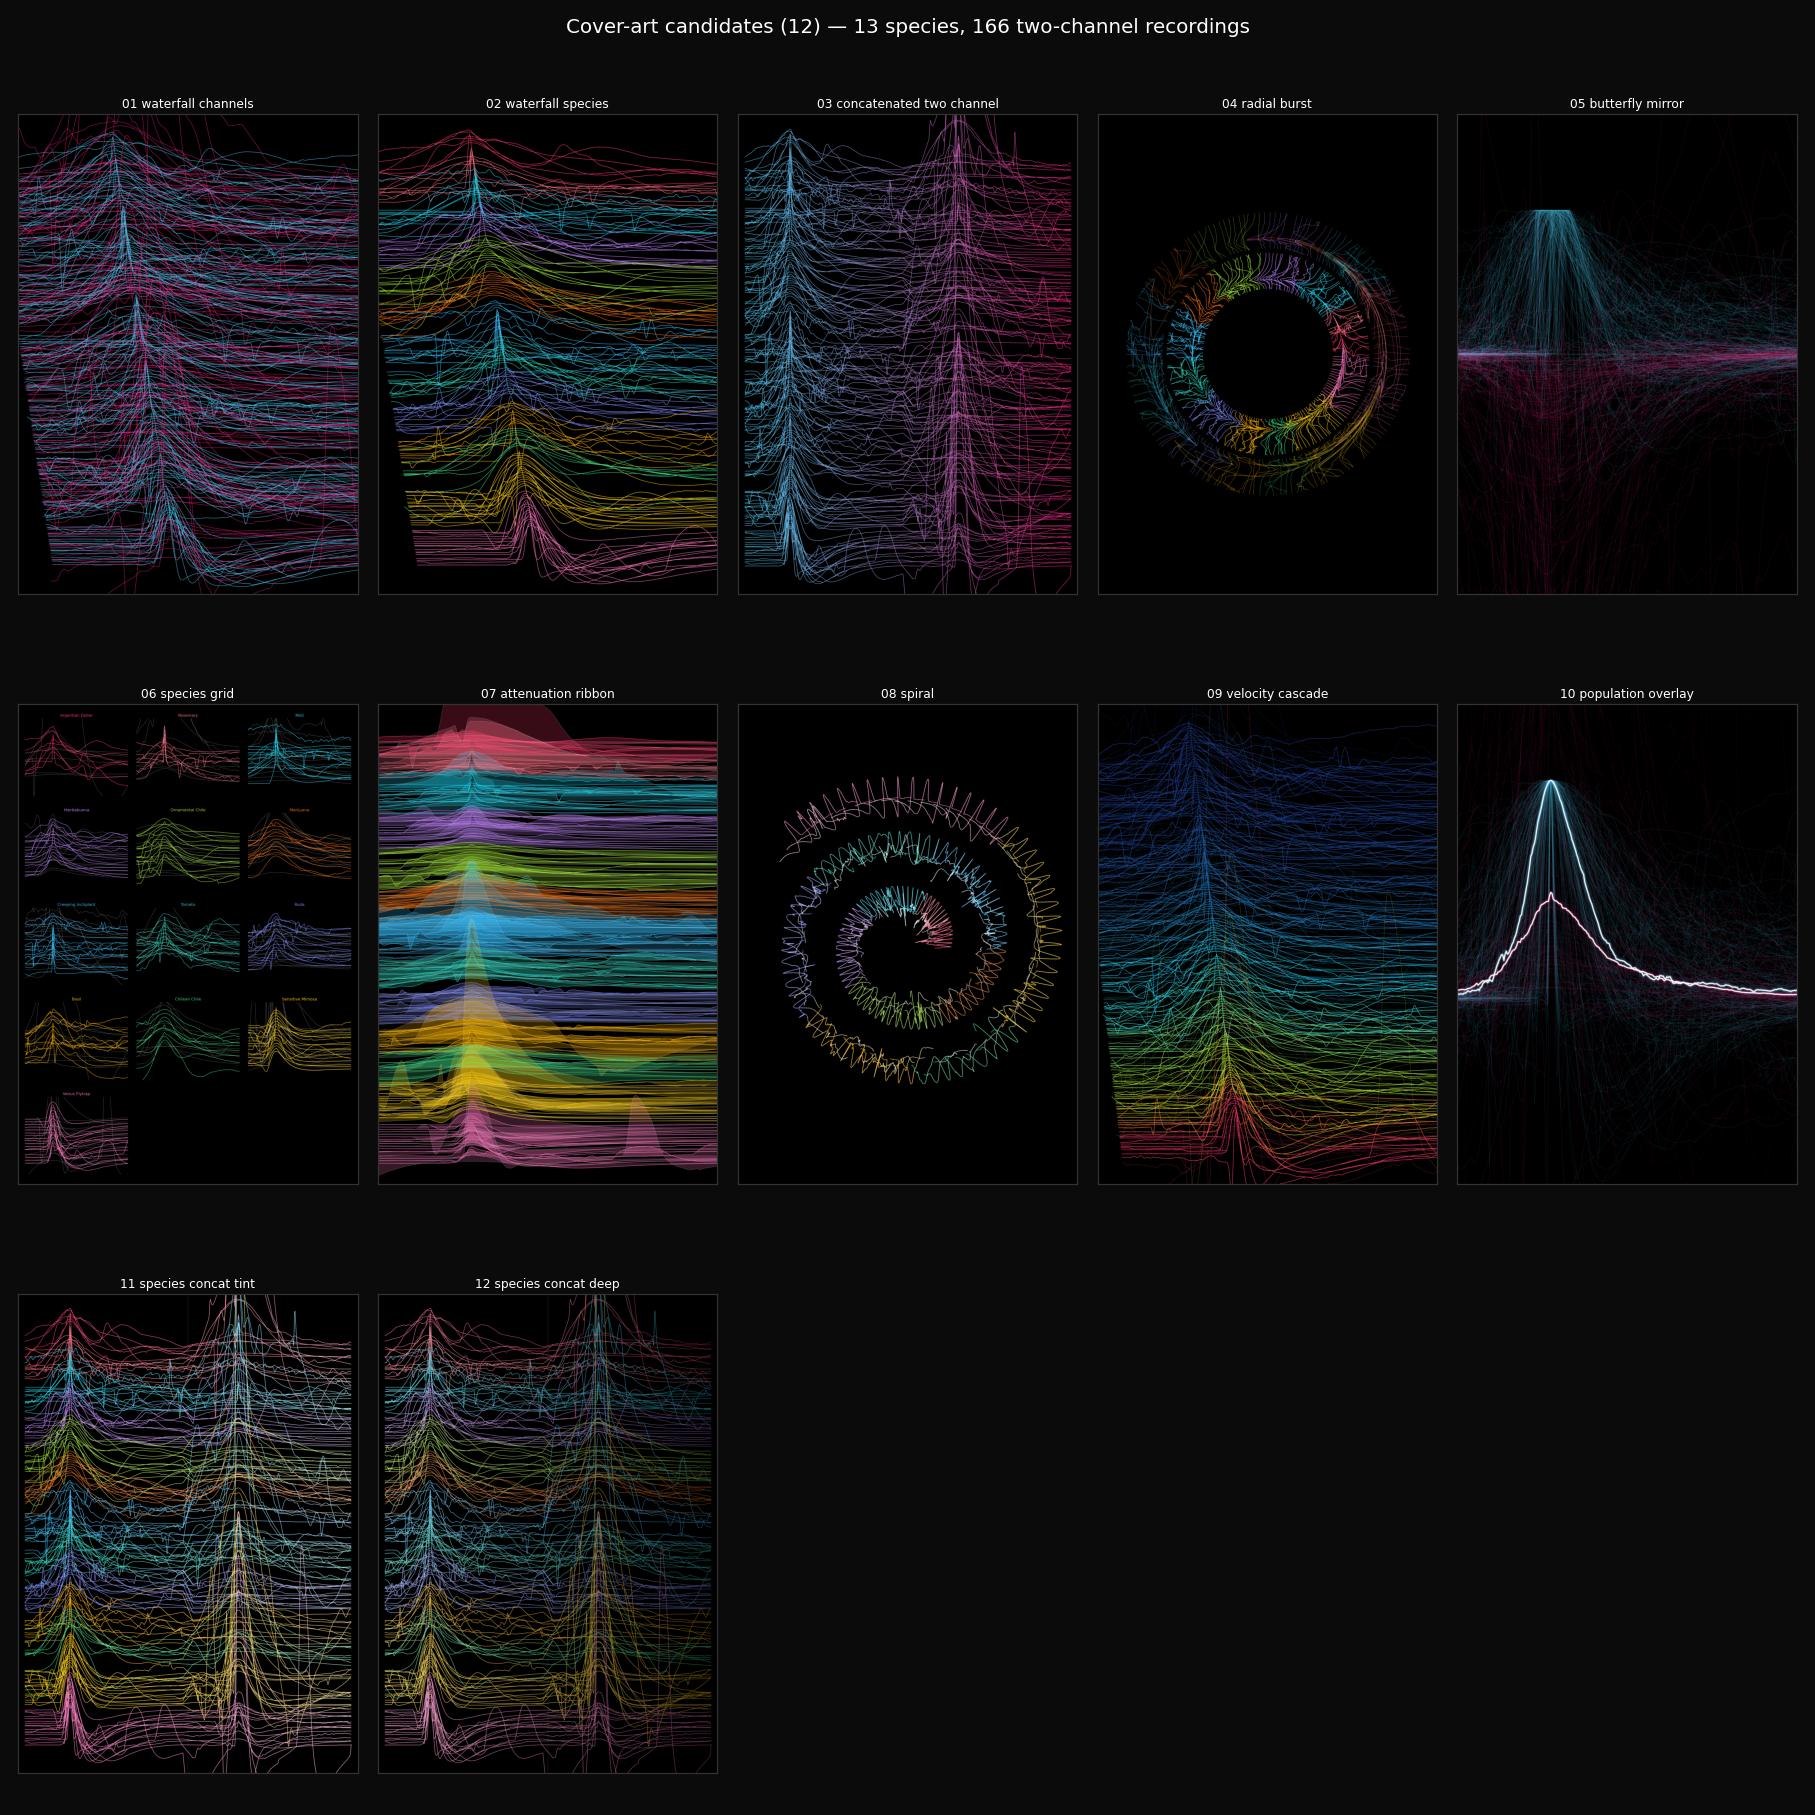
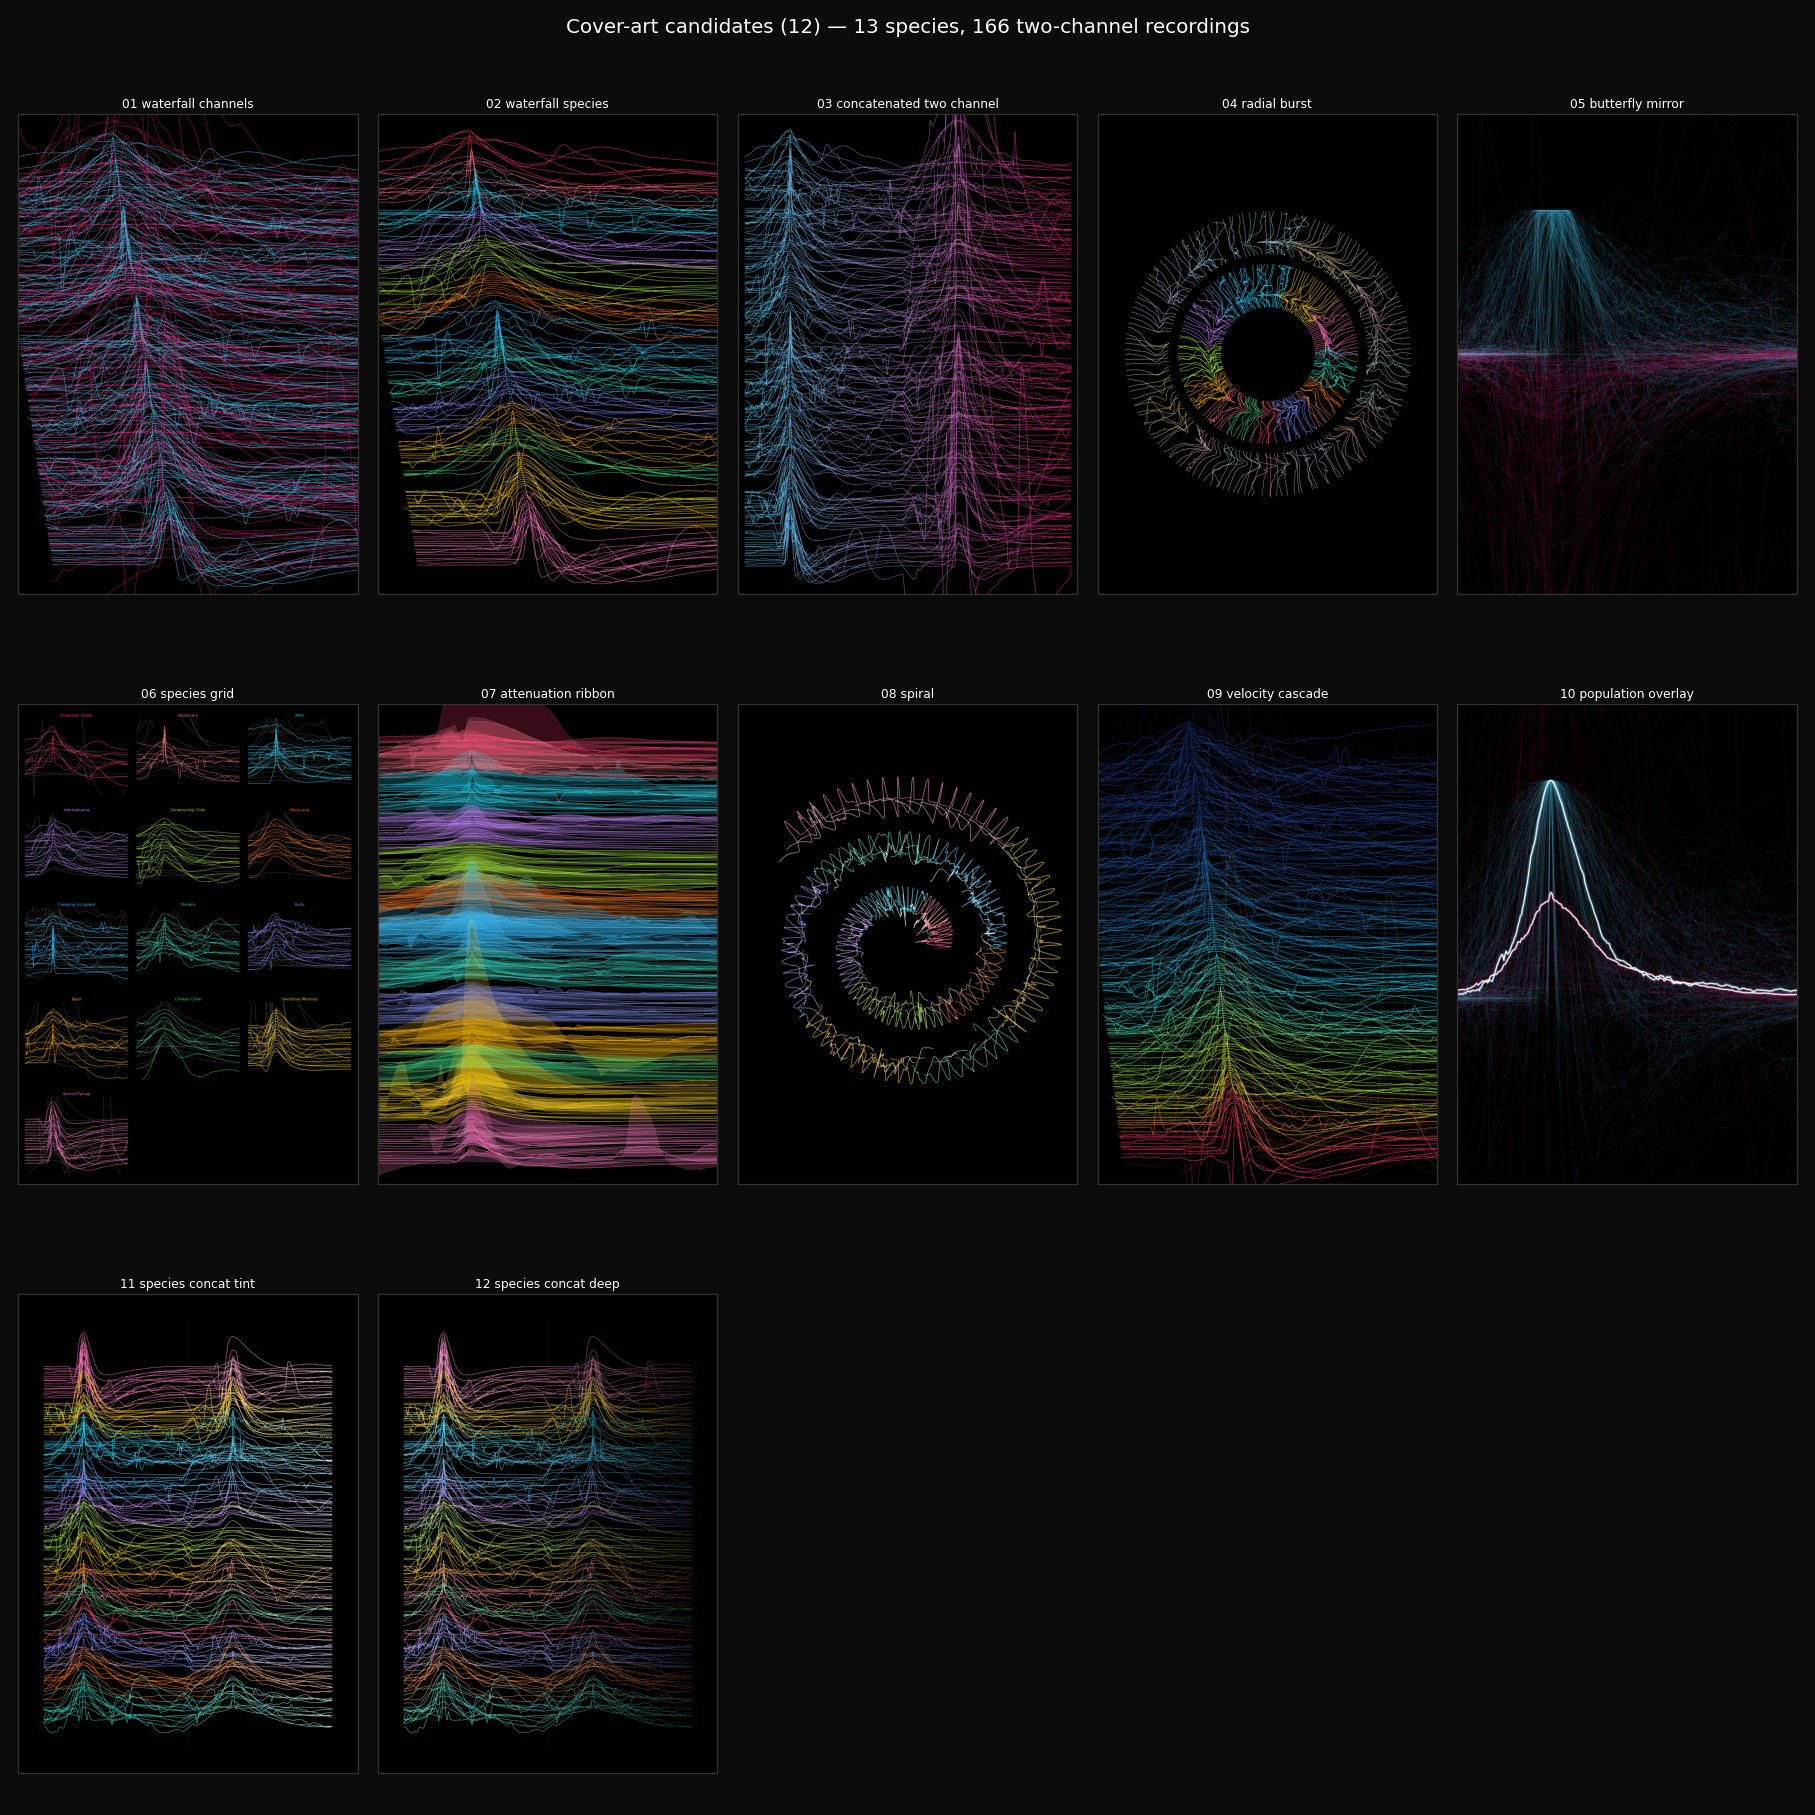
Cover art: stronger near->far fade, real margins, and no cropped traces
Focused on the two the co-author picked: the fused design (11) and the radial
burst (04).

NO MORE CROPPING. The cache normalises both channels by the NEAR peak, so a
recording whose far electrode read larger -- electrode coupling, up to 15.2x
here -- shot off the top and was silently clipped. 39 of 166 recordings exceeded
the old y-limit. New _fit_pair() scales each pair by their JOINT max, bounding
everything to [-1, 1] while preserving the far/near ratio that makes attenuation
visible. Axis limits are now taken from the drawn data plus padding, so nothing
can leave the canvas; verified numerically.

MARGINS. _canvas() takes a margin (0.055 on both designs), and the radial plot
adds 6% radial headroom, so no trace touches the page edge.

STRONGER FADE, SAME SPECIES COLOURS. _gradient_line() gained a `power` argument:
at power=1.9 the near half holds its full species colour and the fade lands
almost entirely on the far half, instead of bleeding across the whole line. Tint
is 0.70 (fused) and 0.62 (radial far ring) -- enough to read as attenuation while
the species hue still survives on the far side. Tried 0.88/0.80 first; that
washed the far half to white and lost the species, so it was dialled back.

SPECIES ORDER. New _by_calm() puts the quietest species at the top of the page.
Ranking is by RMS of the drawn pair, not peak height: after joint normalisation
every trace peaks at exactly 1, so peak height cannot rank them. Venus flytrap
[…]

Changed region(s): [[0.0, 0.7096, 0.4011, 0.9873], [0.6171, 0.1234, 0.7713, 0.2777]]

diff --git a/scripts/cover_art.py b/scripts/cover_art.py
@@ -116,10 +116,10 @@ def load(path=CACHE, rebuild=False):
 
 # ------------------------------------------------------------------------ helpers
 
-def _canvas(facecolor="black"):
+def _canvas(facecolor="black", margin=0.0):
     fig = plt.figure(figsize=A4)
     fig.patch.set_facecolor(facecolor)
-    ax = fig.add_axes([0, 0, 1, 1])
+    ax = fig.add_axes([margin, margin, 1 - 2 * margin, 1 - 2 * margin])
     ax.set_facecolor(facecolor)
     ax.set_xticks([]); ax.set_yticks([])
     for s in ax.spines.values():
@@ -139,14 +139,32 @@ def _clean(y):
     return np.nan_to_num(y, nan=0.0)
 
 
-def _gradient_line(ax, x, y, c0, c1, lw=0.8, alpha=1.0, zorder=2):
-    """One polyline whose colour sweeps c0 -> c1 along its length."""
+def _gradient_line(ax, x, y, c0, c1, lw=0.8, alpha=1.0, zorder=2, power=1.0):
+    """One polyline whose colour sweeps c0 -> c1 along its length.
+
+    power > 1 holds c0 for longer and then fades hard, so on a concatenated
+    near|far line the near half keeps its species colour and the fade lands
+    almost entirely on the far half.
+    """
     pts = np.array([x, y]).T.reshape(-1, 1, 2)
     segs = np.concatenate([pts[:-1], pts[1:]], axis=1)
     cm = LinearSegmentedColormap.from_list("g", [c0, c1])
     lc = LineCollection(segs, cmap=cm, linewidth=lw, alpha=alpha, zorder=zorder)
-    lc.set_array(np.linspace(0, 1, len(segs)))
+    lc.set_array(np.linspace(0, 1, len(segs)) ** power)
     ax.add_collection(lc)
+
+
+def _fit_pair(near, far):
+    """Scale a near/far pair by their JOINT max so neither can leave the canvas.
+
+    The cache normalises both channels by the NEAR peak, so a recording whose far
+    electrode read larger (electrode coupling; up to 15x here) would shoot far off
+    the top and be clipped. Dividing both by the joint max bounds everything to
+    [-1, 1] while preserving the far/near ratio that makes attenuation visible.
+    """
+    a, b = _clean(near), _clean(far)
+    m = max(np.max(np.abs(a)), np.max(np.abs(b)), 1e-9)
+    return a / m, b / m
 
 
 def _tint(c, amount=0.62):
@@ -166,6 +184,25 @@ def _by_species(d):
     med = {s: np.nanmedian(d["cv"][d["species"] == s]) for s in d["order"]}
     order = sorted(d["order"], key=lambda s: med[s])
     return order, {s: np.where(d["species"] == s)[0] for s in order}
+
+
+def _by_calm(d):
+    """Same grouping, but species ordered by how much vertical room they need.
+
+    The quietest species goes FIRST so it sits at the top of the page. Weight is
+    RMS over the drawn (jointly-normalised) pair, not peak height: after
+    normalisation every trace peaks at exactly 1, so peak height cannot rank them
+    -- RMS captures how much ink a species actually puts on the page.
+    """
+    idx = {s: np.where(d["species"] == s)[0] for s in d["order"]}
+    weight = {}
+    for s_, ii in idx.items():
+        r = []
+        for i in ii:
+            a, b = _fit_pair(d["near"][i], d["far"][i])
+            r.append(float(np.sqrt(np.mean(np.concatenate([a, b]) ** 2))))
+        weight[s_] = float(np.median(r)) if r else 0.0
+    return sorted(d["order"], key=lambda s_: weight[s_]), idx
 
 
 # ------------------------------------------------------------------------- designs
@@ -220,25 +257,34 @@ def v03_concatenated(d):
 
 
 def v04_radial(d):
-    """Polar burst: each recording a spoke, angle by species, colour by species."""
-    fig = plt.figure(figsize=A4); fig.patch.set_facecolor("black")
-    ax = fig.add_axes([0.02, 0.02, 0.96, 0.96], projection="polar")
-    ax.set_facecolor("black"); ax.set_xticks([]); ax.set_yticks([])
+    """Polar burst: each recording a spoke, hue = species. Inner ring = near,
+    outer ring = far in a heavily tinted version of the same hue, so the fade
+    reads the same way as the fused design. Pairs are jointly normalised so one
+    large-far recording cannot swing across its neighbours."""
+    fig = plt.figure(figsize=A4)
+    fig.patch.set_facecolor("black")
+    m = 0.055
+    ax = fig.add_axes([m, m, 1 - 2 * m, 1 - 2 * m], projection="polar")
+    ax.set_facecolor("black")
+    ax.set_xticks([]); ax.set_yticks([])
     ax.spines["polar"].set_visible(False)
-    g = d["grid"]
-    order, idx = _by_species(d)
-    total = sum(len(idx[s]) for s in order)
-    k = 0
-    for s in order:
-        for i in idx[s]:
+    order, idx = _by_calm(d)
+    total = sum(len(idx[s_]) for s_ in order)
+    k, rmax = 0, 0.0
+    for s_ in order:
+        col = d["cmap"][s_]
+        far_c = _tint(col, 0.62)
+        for i in idx[s_]:
+            a, b = _fit_pair(d["near"][i], d["far"][i])
             th = 2 * np.pi * k / total
-            amp = _clean(d["near"][i])
-            r = 1.0 + 0.55 * np.linspace(0, 1, len(amp))
-            ax.plot(th + amp * 0.16, r, lw=0.8, color=d["cmap"][s], alpha=0.9)
-            amp2 = _clean(d["far"][i])
-            ax.plot(th + amp2 * 0.16, r + 0.62, lw=0.7, color=d["cmap"][s], alpha=0.45)
+            u = np.linspace(0, 1, len(a))
+            r_in = 0.66 + 0.60 * u
+            r_out = 1.40 + 0.60 * u
+            ax.plot(th + a * 0.17, r_in, lw=0.85, color=col, alpha=0.95)
+            ax.plot(th + b * 0.17, r_out, lw=0.8, color=far_c, alpha=0.75)
+            rmax = max(rmax, r_out.max())
             k += 1
-    ax.set_ylim(0, 2.5)
+    ax.set_ylim(0, rmax * 1.06)     # headroom so no spoke touches the edge
     _save(fig, "04_radial_burst.png")
 
 
@@ -365,28 +411,41 @@ def v10_overlay(d):
 def _species_concat(d, out, mode="tint", divider=True):
     """2 x 3: the concatenated near|far line of design 03, carrying the species
     palette of design 02. Hue = species; luminance sweeps along the line so the
-    near->far join still reads without spending a second hue on it."""
-    fig, ax = _canvas()
+    near->far join reads without spending a second hue on it.
+
+    Both channels are scaled by their joint max (_fit_pair) so nothing can leave
+    the canvas, species are ordered quietest-first so the top of the page stays
+    clear, and the axis limits are taken from the drawn data plus a margin -- so
+    no trace is cropped.
+    """
+    fig, ax = _canvas(margin=0.055)
     g = d["grid"]
     span = g[-1] - g[0]
-    gap = 0.45
-    order, idx = _by_species(d)
+    gap = 0.5
+    order, idx = _by_calm(d)
     ys, row = -0.058, 0
+    lo, hi = 0.0, 0.0
     for s_ in order:
         col = d["cmap"][s_]
-        c0, c1 = (col, _tint(col)) if mode == "tint" else (_tint(col, 0.35), _shade(col))
+        if mode == "tint":
+            c0, c1 = col, _tint(col, 0.70)          # full colour -> pale, hue kept
+        else:
+            c0, c1 = _tint(col, 0.25), _shade(col, 0.72)
         for i in idx[s_]:
+            a, b = _fit_pair(d["near"][i], d["far"][i])
             x = np.concatenate([g, g + span + gap])
-            y = np.concatenate([_clean(d["near"][i]), _clean(d["far"][i])]) + row * ys
-            _gradient_line(ax, x, y, c0, c1, lw=0.78)
+            y = np.concatenate([a, b]) + row * ys
+            # power=2.2 keeps the near half saturated and drops the fade on the far half
+            _gradient_line(ax, x, y, c0, c1, lw=0.8, power=1.9)
+            lo = min(lo, float(y.min())); hi = max(hi, float(y.max()))
             row += 1
-        row += 1.5
+        row += 1.6
     if divider:
-        # faint rule at the join so the two channels are unambiguous
         xm = g[-1] + gap / 2
-        ax.axvline(xm, color="#555", lw=0.6, alpha=0.55, zorder=0)
-    ax.set_xlim(g[0] - 0.3, g[0] + 2 * span + gap + 0.3)
-    ax.set_ylim(row * ys - 0.6, 1.4)
+        ax.axvline(xm, color="#4a4a4a", lw=0.6, alpha=0.6, zorder=0)
+    padx, pady = 0.35, 0.12 * (hi - lo) / 10.0 + 0.25
+    ax.set_xlim(g[0] - padx, g[0] + 2 * span + gap + padx)
+    ax.set_ylim(lo - pady, hi + pady)
     _save(fig, out)
 
 
